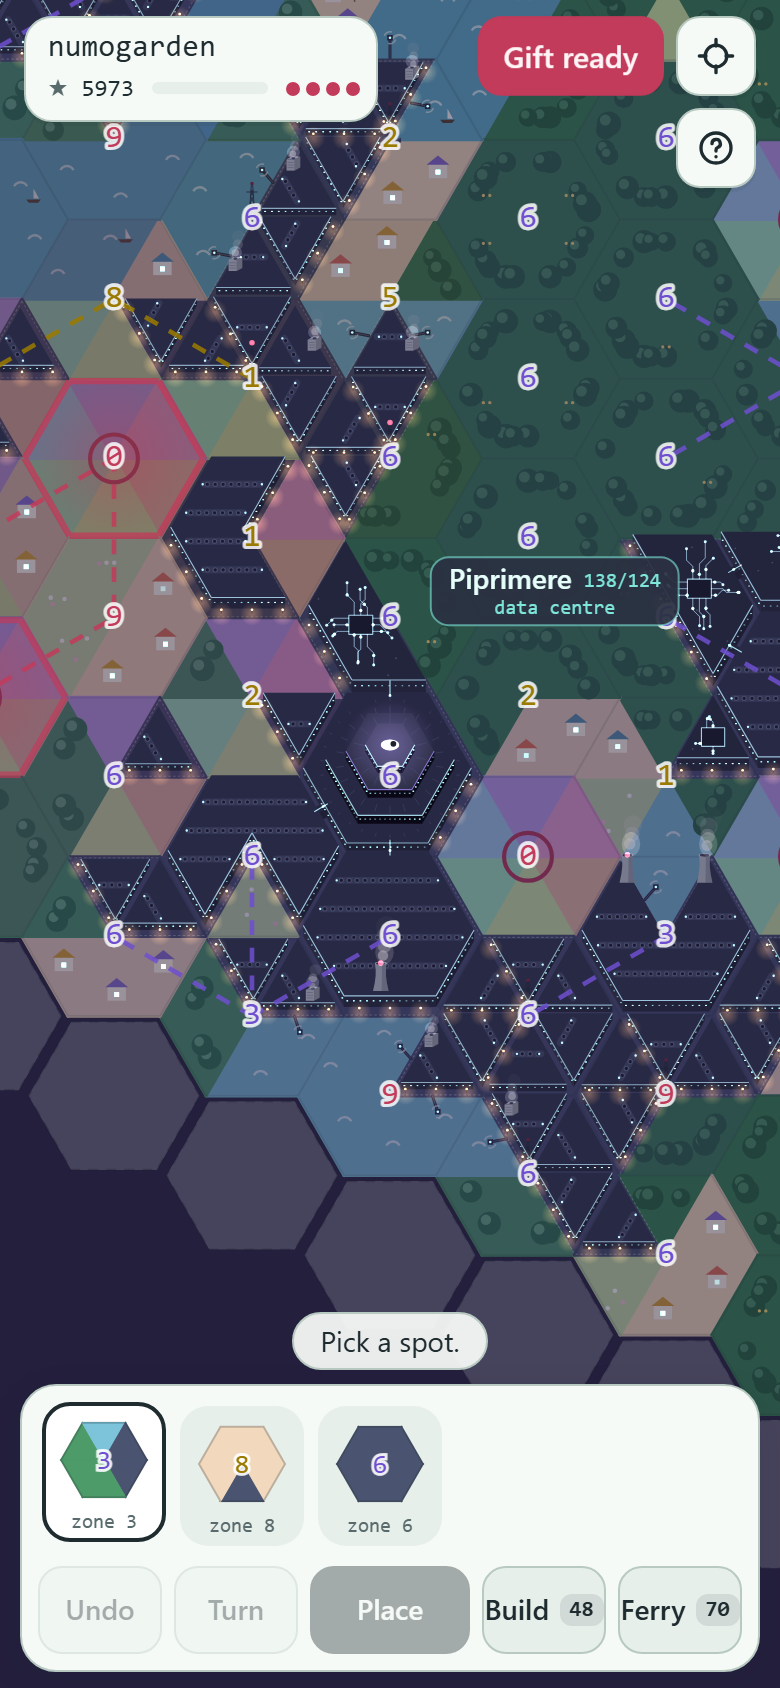
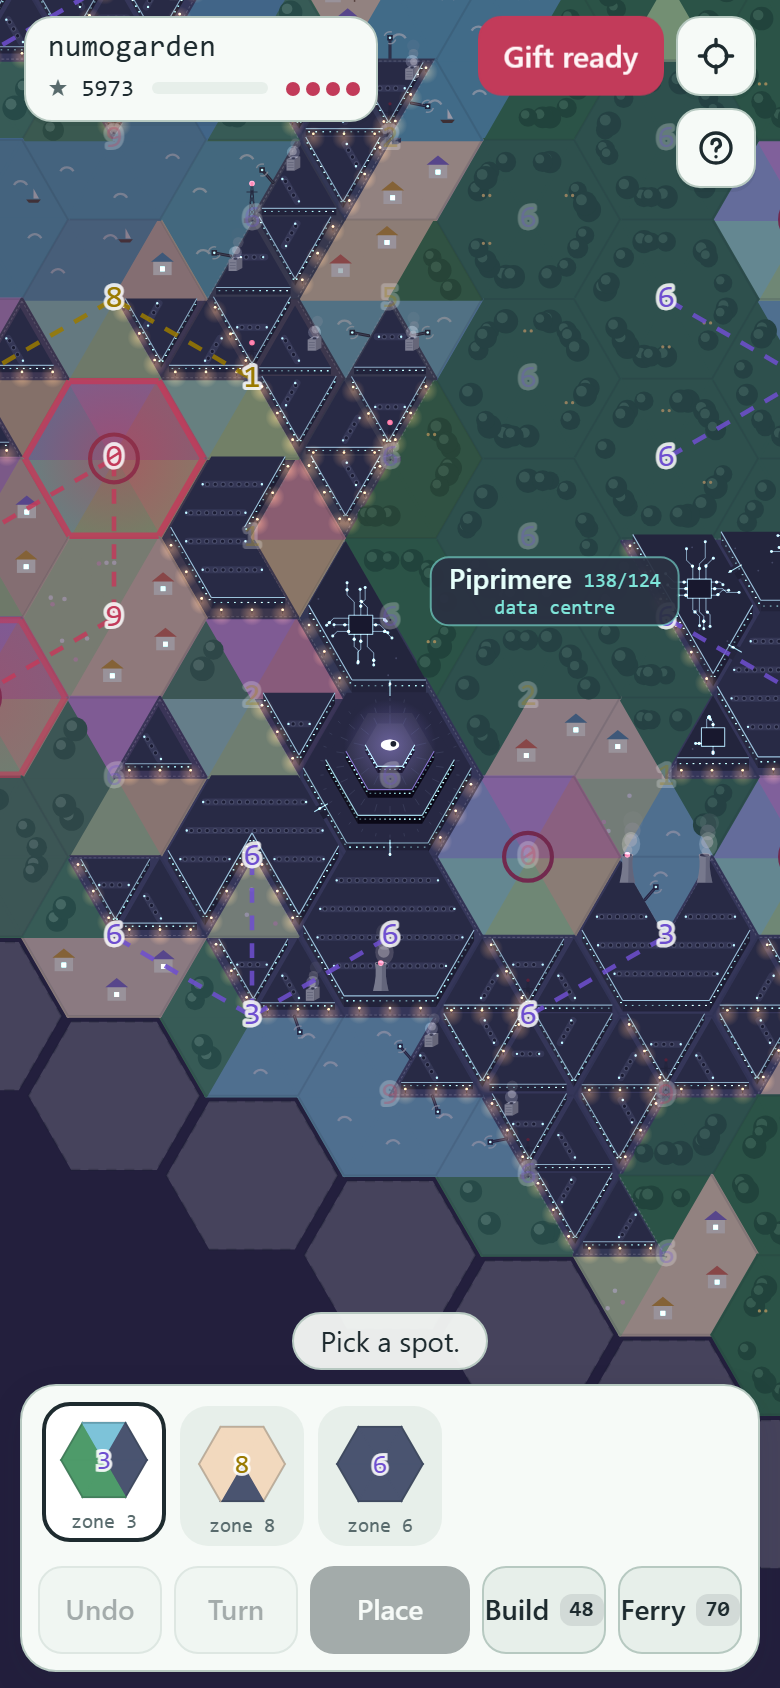
Idle zone numerals dim at night, so the live circuit stands out
Claude-Session: https://claude.ai/code/session_01Kme6PSoEQ3nadxpig1sZ6J

diff --git a/artifact/numogarden.html b/artifact/numogarden.html
@@ -2539,7 +2539,7 @@ const $ = id => document.getElementById(id);
 const cv = $('board'), ctx = cv.getContext('2d');
 const slotsEl = $('slots'), hintEl = $('hint'), toastsEl = $('toasts'), scrim = $('scrim'), sheet = $('sheet');
 
-let state = null, view = { info: {}, labels: [], seas: [] }, idMap = {}, currents = [], tint = {};
+let state = null, view = { info: {}, labels: [], seas: [] }, idMap = {}, currents = [], tint = {}, inCurrent = new Set();
 let townArt = new Map(), dcArt = new Map(), artList = []; // each town and data-centre tile's art, and every building and piece back to front (planned in refresh)
 let cam = { x: 0, y: 0, s: 46 };
 let W = 0, H = 0, dpr = 1;
@@ -2592,11 +2592,11 @@ function refresh() {
   view = S.view(state);
   ui.focus = null; // the land has changed, so a tapped town's highlight is stale
   // currents as the rules see them, with the tiles at each end and a light tint over each area
-  currents = []; tint = {};
+  currents = []; tint = {}; inCurrent = new Set(); // inCurrent: the tiles at either end of a current, lingering ones too
   for (const c of S.activeCurrents(state)) {
     const a = idMap[c.a], b = idMap[c.b]; if (!a || !b) continue;
     const col = REGION_COL[S.region(c.hi - c.lo)], area = S.currentArea(state, c);
-    currents.push({ c, a, b, col, area: new Set(area.map(t => t.id)) });
+    currents.push({ c, a, b, col, area: new Set(area.map(t => t.id)) }); inCurrent.add(a.id).add(b.id);
     for (const t of area) (tint[t.id] || (tint[t.id] = new Set())).add(col);
   }
   planArt();
@@ -3234,7 +3234,7 @@ function openInfo() {
         <li>Glowing wedges change on your next placement. A dashed tile is about to be laid${state.level >= 4 ? ': crimson by a metropolis, violet for a dream' : ' by a metropolis'}.</li>
         <li>Vines grow on hamlets and fields that are fading.</li>
         <li>A ghost tile is a rumor, and the number under it counts the neighbours that agree with it.${state.dcSince != null || state.stats.doorDreams ? ` Dreams are ghosts with drifting lines${state.stats.doorDreams ? ': violet from a data centre, crimson from a door' : ''}.` : ''}</li>
-        ${state.level >= 1 ? '<li>The number on a tile is its zone. A current is a dashed line between its two tiles, with a light tint over the land it acts on.</li>' : ''}
+        ${state.level >= 1 ? `<li>The number on a tile is its zone. A current is a dashed line between its two tiles, with a light tint over the land it acts on.${state.level >= 4 ? ' At night only the zones of tiles with a current stay bright.' : ''}</li>` : ''}
         ${state.dcSince != null ? '<li>Data centres puff steam where they touch the sea. When one runs hot, its lights blink red and heat rises from the wedge that will fall next.</li>' : ''}
         ${(view.doors || []).some(d => d.open) || state.stats.doors ? '<li>An open door glows crimson.</li>' : ''}
         ${(view.roads || []).length || state.stats.roads ? `<li>A road starts as a dashed path and wears into a sandy road. Dots moving along it carry food to a hungry town. A green dashed road is overgrown.${state.level >= 4 ? ' At night old roads are lit.' : ''}</li>` : ''}
@@ -3709,6 +3709,7 @@ function drawLemurs(t) {
     ctx.beginPath(); ctx.arc(hx + 0.058, hy + 0.012, 0.009, 0, 7); ctx.fill();
   }
 }
+const IDLE_ZONE_ALPHA = 0.3; // a tile in no current shows its zone this faintly at night
 function drawText(now) {
   ctx.setTransform(dpr, 0, 0, dpr, 0, 0);
   const L = state.level, s = cam.s;
@@ -3719,9 +3720,11 @@ function drawText(now) {
     for (const k in state.map) {
       const tl = state.map[k], c = hexCenter(tl.q, tl.r), [sx, sy] = toScreen(c[0], c[1]);
       if (sx < -s || sx > W + s || sy < -s || sy > H + s) continue;
+      ctx.globalAlpha = L >= 4 && !inCurrent.has(tl.id) ? IDLE_ZONE_ALPHA : 1; // at night only the live circuit's numerals stay bright
       ctx.strokeStyle = 'rgba(255,255,255,.85)'; ctx.strokeText(String(tl.z), sx, sy);
       ctx.fillStyle = REGION_COL[S.region(tl.z)]; ctx.fillText(String(tl.z), sx, sy);
     }
+    ctx.globalAlpha = 1;
   }
   if (s >= 26) {
     ctx.font = `500 ${Math.round(Math.max(10, s * 0.22))}px "IBM Plex Mono", monospace`;

diff --git a/docs/index.html b/docs/index.html
@@ -2539,7 +2539,7 @@ const $ = id => document.getElementById(id);
 const cv = $('board'), ctx = cv.getContext('2d');
 const slotsEl = $('slots'), hintEl = $('hint'), toastsEl = $('toasts'), scrim = $('scrim'), sheet = $('sheet');
 
-let state = null, view = { info: {}, labels: [], seas: [] }, idMap = {}, currents = [], tint = {};
+let state = null, view = { info: {}, labels: [], seas: [] }, idMap = {}, currents = [], tint = {}, inCurrent = new Set();
 let townArt = new Map(), dcArt = new Map(), artList = []; // each town and data-centre tile's art, and every building and piece back to front (planned in refresh)
 let cam = { x: 0, y: 0, s: 46 };
 let W = 0, H = 0, dpr = 1;
@@ -2592,11 +2592,11 @@ function refresh() {
   view = S.view(state);
   ui.focus = null; // the land has changed, so a tapped town's highlight is stale
   // currents as the rules see them, with the tiles at each end and a light tint over each area
-  currents = []; tint = {};
+  currents = []; tint = {}; inCurrent = new Set(); // inCurrent: the tiles at either end of a current, lingering ones too
   for (const c of S.activeCurrents(state)) {
     const a = idMap[c.a], b = idMap[c.b]; if (!a || !b) continue;
     const col = REGION_COL[S.region(c.hi - c.lo)], area = S.currentArea(state, c);
-    currents.push({ c, a, b, col, area: new Set(area.map(t => t.id)) });
+    currents.push({ c, a, b, col, area: new Set(area.map(t => t.id)) }); inCurrent.add(a.id).add(b.id);
     for (const t of area) (tint[t.id] || (tint[t.id] = new Set())).add(col);
   }
   planArt();
@@ -3234,7 +3234,7 @@ function openInfo() {
         <li>Glowing wedges change on your next placement. A dashed tile is about to be laid${state.level >= 4 ? ': crimson by a metropolis, violet for a dream' : ' by a metropolis'}.</li>
         <li>Vines grow on hamlets and fields that are fading.</li>
         <li>A ghost tile is a rumor, and the number under it counts the neighbours that agree with it.${state.dcSince != null || state.stats.doorDreams ? ` Dreams are ghosts with drifting lines${state.stats.doorDreams ? ': violet from a data centre, crimson from a door' : ''}.` : ''}</li>
-        ${state.level >= 1 ? '<li>The number on a tile is its zone. A current is a dashed line between its two tiles, with a light tint over the land it acts on.</li>' : ''}
+        ${state.level >= 1 ? `<li>The number on a tile is its zone. A current is a dashed line between its two tiles, with a light tint over the land it acts on.${state.level >= 4 ? ' At night only the zones of tiles with a current stay bright.' : ''}</li>` : ''}
         ${state.dcSince != null ? '<li>Data centres puff steam where they touch the sea. When one runs hot, its lights blink red and heat rises from the wedge that will fall next.</li>' : ''}
         ${(view.doors || []).some(d => d.open) || state.stats.doors ? '<li>An open door glows crimson.</li>' : ''}
         ${(view.roads || []).length || state.stats.roads ? `<li>A road starts as a dashed path and wears into a sandy road. Dots moving along it carry food to a hungry town. A green dashed road is overgrown.${state.level >= 4 ? ' At night old roads are lit.' : ''}</li>` : ''}
@@ -3709,6 +3709,7 @@ function drawLemurs(t) {
     ctx.beginPath(); ctx.arc(hx + 0.058, hy + 0.012, 0.009, 0, 7); ctx.fill();
   }
 }
+const IDLE_ZONE_ALPHA = 0.3; // a tile in no current shows its zone this faintly at night
 function drawText(now) {
   ctx.setTransform(dpr, 0, 0, dpr, 0, 0);
   const L = state.level, s = cam.s;
@@ -3719,9 +3720,11 @@ function drawText(now) {
     for (const k in state.map) {
       const tl = state.map[k], c = hexCenter(tl.q, tl.r), [sx, sy] = toScreen(c[0], c[1]);
       if (sx < -s || sx > W + s || sy < -s || sy > H + s) continue;
+      ctx.globalAlpha = L >= 4 && !inCurrent.has(tl.id) ? IDLE_ZONE_ALPHA : 1; // at night only the live circuit's numerals stay bright
       ctx.strokeStyle = 'rgba(255,255,255,.85)'; ctx.strokeText(String(tl.z), sx, sy);
       ctx.fillStyle = REGION_COL[S.region(tl.z)]; ctx.fillText(String(tl.z), sx, sy);
     }
+    ctx.globalAlpha = 1;
   }
   if (s >= 26) {
     ctx.font = `500 ${Math.round(Math.max(10, s * 0.22))}px "IBM Plex Mono", monospace`;

diff --git a/src/game.html b/src/game.html
@@ -252,7 +252,7 @@ const $ = id => document.getElementById(id);
 const cv = $('board'), ctx = cv.getContext('2d');
 const slotsEl = $('slots'), hintEl = $('hint'), toastsEl = $('toasts'), scrim = $('scrim'), sheet = $('sheet');
 
-let state = null, view = { info: {}, labels: [], seas: [] }, idMap = {}, currents = [], tint = {};
+let state = null, view = { info: {}, labels: [], seas: [] }, idMap = {}, currents = [], tint = {}, inCurrent = new Set();
 let townArt = new Map(), dcArt = new Map(), artList = []; // each town and data-centre tile's art, and every building and piece back to front (planned in refresh)
 let cam = { x: 0, y: 0, s: 46 };
 let W = 0, H = 0, dpr = 1;
@@ -305,11 +305,11 @@ function refresh() {
   view = S.view(state);
   ui.focus = null; // the land has changed, so a tapped town's highlight is stale
   // currents as the rules see them, with the tiles at each end and a light tint over each area
-  currents = []; tint = {};
+  currents = []; tint = {}; inCurrent = new Set(); // inCurrent: the tiles at either end of a current, lingering ones too
   for (const c of S.activeCurrents(state)) {
     const a = idMap[c.a], b = idMap[c.b]; if (!a || !b) continue;
     const col = REGION_COL[S.region(c.hi - c.lo)], area = S.currentArea(state, c);
-    currents.push({ c, a, b, col, area: new Set(area.map(t => t.id)) });
+    currents.push({ c, a, b, col, area: new Set(area.map(t => t.id)) }); inCurrent.add(a.id).add(b.id);
     for (const t of area) (tint[t.id] || (tint[t.id] = new Set())).add(col);
   }
   planArt();
@@ -947,7 +947,7 @@ function openInfo() {
         <li>Glowing wedges change on your next placement. A dashed tile is about to be laid${state.level >= 4 ? ': crimson by a metropolis, violet for a dream' : ' by a metropolis'}.</li>
         <li>Vines grow on hamlets and fields that are fading.</li>
         <li>A ghost tile is a rumor, and the number under it counts the neighbours that agree with it.${state.dcSince != null || state.stats.doorDreams ? ` Dreams are ghosts with drifting lines${state.stats.doorDreams ? ': violet from a data centre, crimson from a door' : ''}.` : ''}</li>
-        ${state.level >= 1 ? '<li>The number on a tile is its zone. A current is a dashed line between its two tiles, with a light tint over the land it acts on.</li>' : ''}
+        ${state.level >= 1 ? `<li>The number on a tile is its zone. A current is a dashed line between its two tiles, with a light tint over the land it acts on.${state.level >= 4 ? ' At night only the zones of tiles with a current stay bright.' : ''}</li>` : ''}
         ${state.dcSince != null ? '<li>Data centres puff steam where they touch the sea. When one runs hot, its lights blink red and heat rises from the wedge that will fall next.</li>' : ''}
         ${(view.doors || []).some(d => d.open) || state.stats.doors ? '<li>An open door glows crimson.</li>' : ''}
         ${(view.roads || []).length || state.stats.roads ? `<li>A road starts as a dashed path and wears into a sandy road. Dots moving along it carry food to a hungry town. A green dashed road is overgrown.${state.level >= 4 ? ' At night old roads are lit.' : ''}</li>` : ''}
@@ -1422,6 +1422,7 @@ function drawLemurs(t) {
     ctx.beginPath(); ctx.arc(hx + 0.058, hy + 0.012, 0.009, 0, 7); ctx.fill();
   }
 }
+const IDLE_ZONE_ALPHA = 0.3; // a tile in no current shows its zone this faintly at night
 function drawText(now) {
   ctx.setTransform(dpr, 0, 0, dpr, 0, 0);
   const L = state.level, s = cam.s;
@@ -1432,9 +1433,11 @@ function drawText(now) {
     for (const k in state.map) {
       const tl = state.map[k], c = hexCenter(tl.q, tl.r), [sx, sy] = toScreen(c[0], c[1]);
       if (sx < -s || sx > W + s || sy < -s || sy > H + s) continue;
+      ctx.globalAlpha = L >= 4 && !inCurrent.has(tl.id) ? IDLE_ZONE_ALPHA : 1; // at night only the live circuit's numerals stay bright
       ctx.strokeStyle = 'rgba(255,255,255,.85)'; ctx.strokeText(String(tl.z), sx, sy);
       ctx.fillStyle = REGION_COL[S.region(tl.z)]; ctx.fillText(String(tl.z), sx, sy);
     }
+    ctx.globalAlpha = 1;
   }
   if (s >= 26) {
     ctx.font = `500 ${Math.round(Math.max(10, s * 0.22))}px "IBM Plex Mono", monospace`;

diff --git a/CLAUDE.md b/CLAUDE.md
@@ -138,7 +138,7 @@ No rule eats fields: towns live on fields or sea as before, and on what roads br
 1. Tiles show zones; syzygies, lemurs and currents start. Currents are drawn faint, with a light tint over the land they act on.
 2. Towns show AQ readouts; fields turn to dashed tokens; violet roofs and antennas.
 3. Houses grow eyes that follow your finger; the ground dusks; eyes in deep jungle.
-4. Night, lit windows, and the currents glow bright. A current is drawn as animated dashes between its pair, running from the higher zone to the lower, coloured by the region of its difference, and it fades while it lingers. Once a town builds itself at night, data centres arrive.
+4. Night, lit windows, and the currents glow bright. A current is drawn as animated dashes between its pair, running from the higher zone to the lower, coloured by the region of its difference, and it fades while it lingers. The zone numerals of tiles in no current, lingering ones included, dim to 30% (`IDLE_ZONE_ALPHA`), so the live circuit stands out (2026-10-30). Once a town builds itself at night, data centres arrive.
 
 **Page.** One-screen canvas game. HUD (wordmark, stars, gift meter, weirdness pips), tray (offers plus gifts), tools (Undo, Turn, Place, Build, Ferry), sheets (gift choice, tile inspector, lemur card, info with settings, chronicle and New world). Controls:
 - Tap a spot to preview at the best rotation, tap the preview to turn it, then Place.
@@ -310,7 +310,7 @@ The numbers below come from the greedy bot, 20 seeds (1000 + i×7919), each mark
 
   The Time-Circuit survives where towns and fields mix into the land, and night removes the fields. The chat suggested keeping it, because it fits: human time lives where people are, and the Outside, the sea and the machines sit in the Warp, Djynxx's region.
   - Loops will mostly be Warp loops at night. In a sea of 6s, two touching zone-3 tiles close a loop with the two 6s they share, so tune loop doubling on Warp in night games first.
-  - The 6s become wallpaper. Idea: at night, dim the numerals of tiles in no current so the live circuit stands out.
+  - The 6s become wallpaper. Idea: at night, dim the numerals of tiles in no current so the live circuit stands out. Built on 2026-10-30.
 - **Ferries pile up.** SVL let them pile up without meaning to, not yet sure how best to use them. The bots never ferry, so their counts show how many the game hands out: 24 in hand at placement 300, 46 at 600 and 69 at 900 (0ff8000), since every sea that reaches 10, 20 or 35 wedges pays out. Ideas: make their use clearer, and give them a late-game job, such as setting out to a new isle with a trip further than three hexes.
 - **Dreams stall against their own data centre.** A dream is made of hamlet, field, jungle and sea but is laid against D, and D matches only D and X. So the sides touching the machine never agree, and a dream in a corner loses two or three possible believers. Idea: give each dream a D edge facing its data centre, so the machine believes its own dreams. A dream that comes true then grows the machine by a wedge: the machine feeding on its own output, which is where model collapse starts. It needs a harness pass, since dreams shifted Plex and perfect fits once before (tuning history 16). Built on 2026-10-26 as tuning history 20.
 - **The night's shift reads in play.** The biggest towns were the hungry ones: Tikpaford had 10 of the 17 food it needed and Bubgool 10 of 13 (SVL's run, 0ff8000, in that engine's units: field and sea wedges on the border against a third of the town's size). Tikpaford's data centre carries its name.
@@ -331,8 +331,8 @@ So wild land has a way in and no way out: 8% of the map, gathered into permanent
 - Doors are done, from SVL's spec, in harness-checked steps: settling wild land (tuning history 23), the doors themselves (24), door dreams (25), and doors dreaming on the nearest open ground once the land closes in, which SVL chose on 2026-10-28 (26). The explainer, a doors line in the phone check, the fresh set (6100000) and the long-game drift check are done too.
 - The town art from SVL's art lab is ported (2026-10-28). SVL kept `SHARE` at 0.55 and chose not to keep the old houses as a setting. The data-centre art from SVL's second art lab is ported too (2026-10-28). Lemurs with jobs are next in the suggested order, starting with their positions in the rules engine and believing.
 - After that the backlog is open, and the author picks what comes next. Suggested order from the playtest notes:
-  1. Idle numerals dim at night. Data centres believing their own dreams, the other half of this step, is tuning history 20.
-  2. Loops, with Warp loops tuned in night games first.
+  1. Idle numerals dim at night: built 2026-10-30. Data centres believing their own dreams, the other half of this step, is tuning history 20.
+  2. Loops, next (SVL's choice on 2026-10-30, with lemurs held back), with Warp loops tuned in night games first.
   3. Isles (setting out from an island at night to a new one), with ferries as the way to set out.
 
 From SVL's playtests on 2026-10-25: the page changes (Needs at a glance, the red lights, the explainer), split towns keeping separate records (tuning history 17), at most 2 dreams out per data centre (18), and fields feeding towns by their whole mass with the cozy floor at 40 (19). On 2026-10-26: more contrast between fields and towns, data centres believing their own dreams (20), and cities sparing their fields (21). On 2026-10-27: roads between towns, a player's idea (22), and doors: settling wild land (23), the doors themselves (24) and door dreams (25). On 2026-10-28: the town art from SVL's art lab, doors dreaming on the nearest open ground (26), and the data-centre art. The author chose a dream cap of 2 over 1 because they weren't sure the clutter mattered and wanted play to decide; 18 has the numbers for 1.
